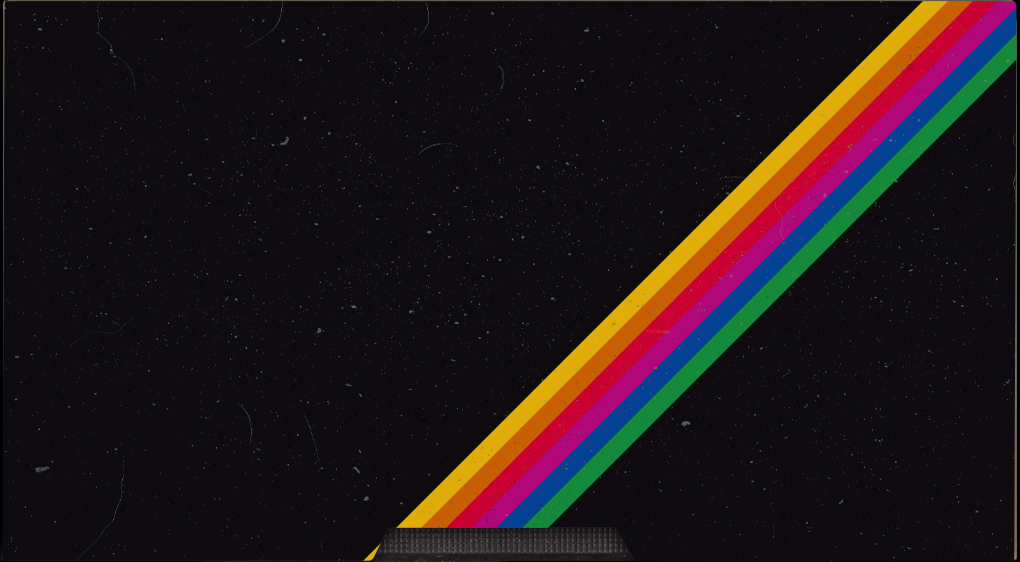
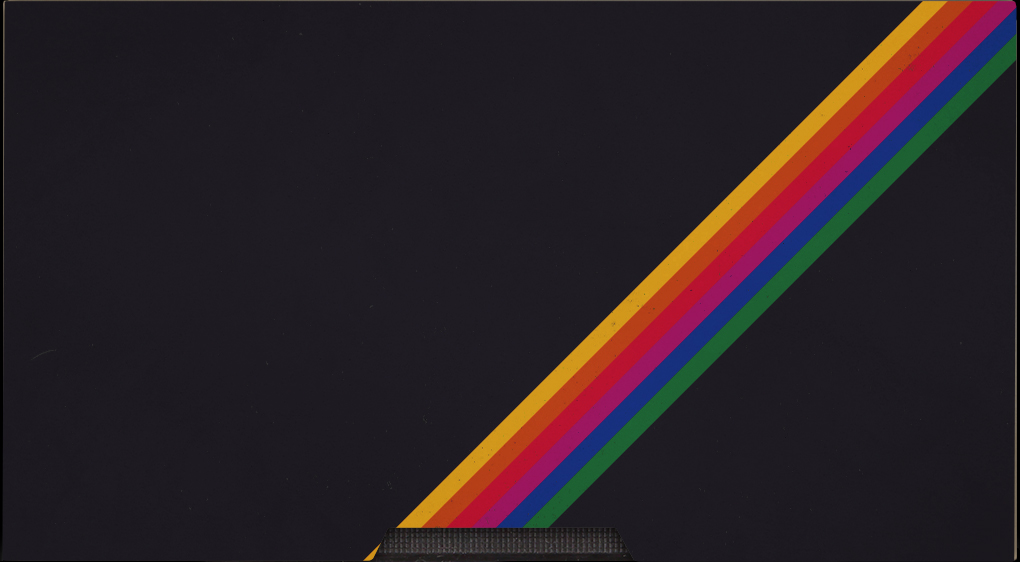
changed resume sticker

Changed region(s): [[0.3951, 0.0, 1.0, 0.9377]]

diff --git a/index.html b/index.html
@@ -174,8 +174,8 @@
 		  <img src="images/linkedin-sticker-reduced.png" alt="LinkedIn Logo" class="contact_links display_mobile_only">
 	  	</a>
 		<a href="docs/resume_file.pdf">
-			<img src="images/Resume-Sticker-85px.png" alt="LinkedIn Logo" class="contact_links display_not_mobile resume_link">
-			<img src="images/Resume-Sticker-59px.png" alt="LinkedIn Logo" class="contact_links display_mobile_only resume_link">
+			<img src="images/Resume-Sticker2-85px.png" alt="LinkedIn Logo" class="contact_links display_not_mobile resume_link">
+			<img src="images/Resume-Sticker2-59px.png" alt="LinkedIn Logo" class="contact_links display_mobile_only resume_link">
 	  	</a>
 	</div>
 </div>
